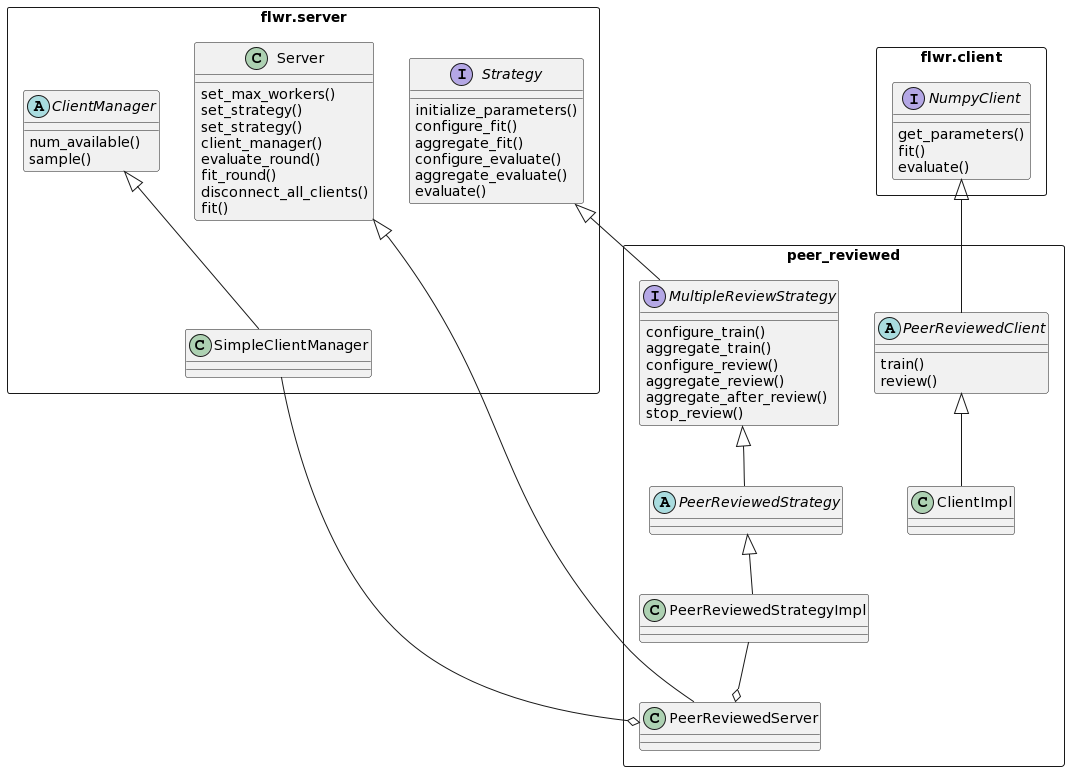
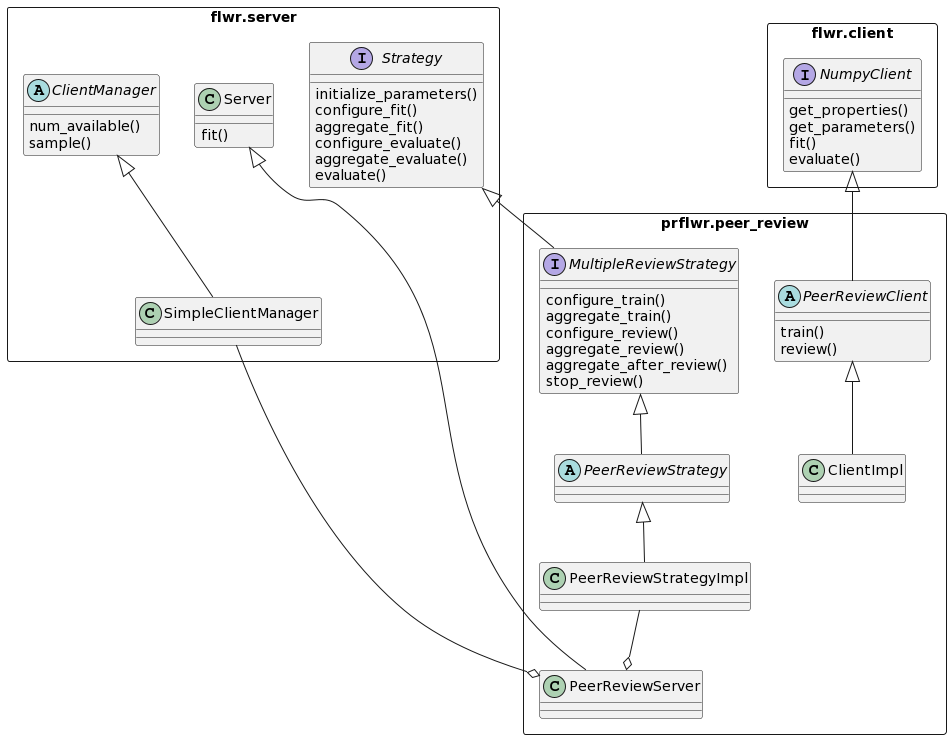
Updated diagrams and readme

diff --git a/README.md b/README.md
@@ -7,7 +7,9 @@ Peer reviewed federated learning usign Flower.
 
 ## Installation
 
-Project dependencies are included in the ```requirement.txt``` file, install them using pip or similar tools.
+Install using pip with: ```pip install git+https://github.com/passerim/peer-reviewed-flower.git```
+
+Project dependencies are also included in the ```requirements.txt``` file, install them using pip or similar tools.
 
 ## Class and sequence diagrams
 
